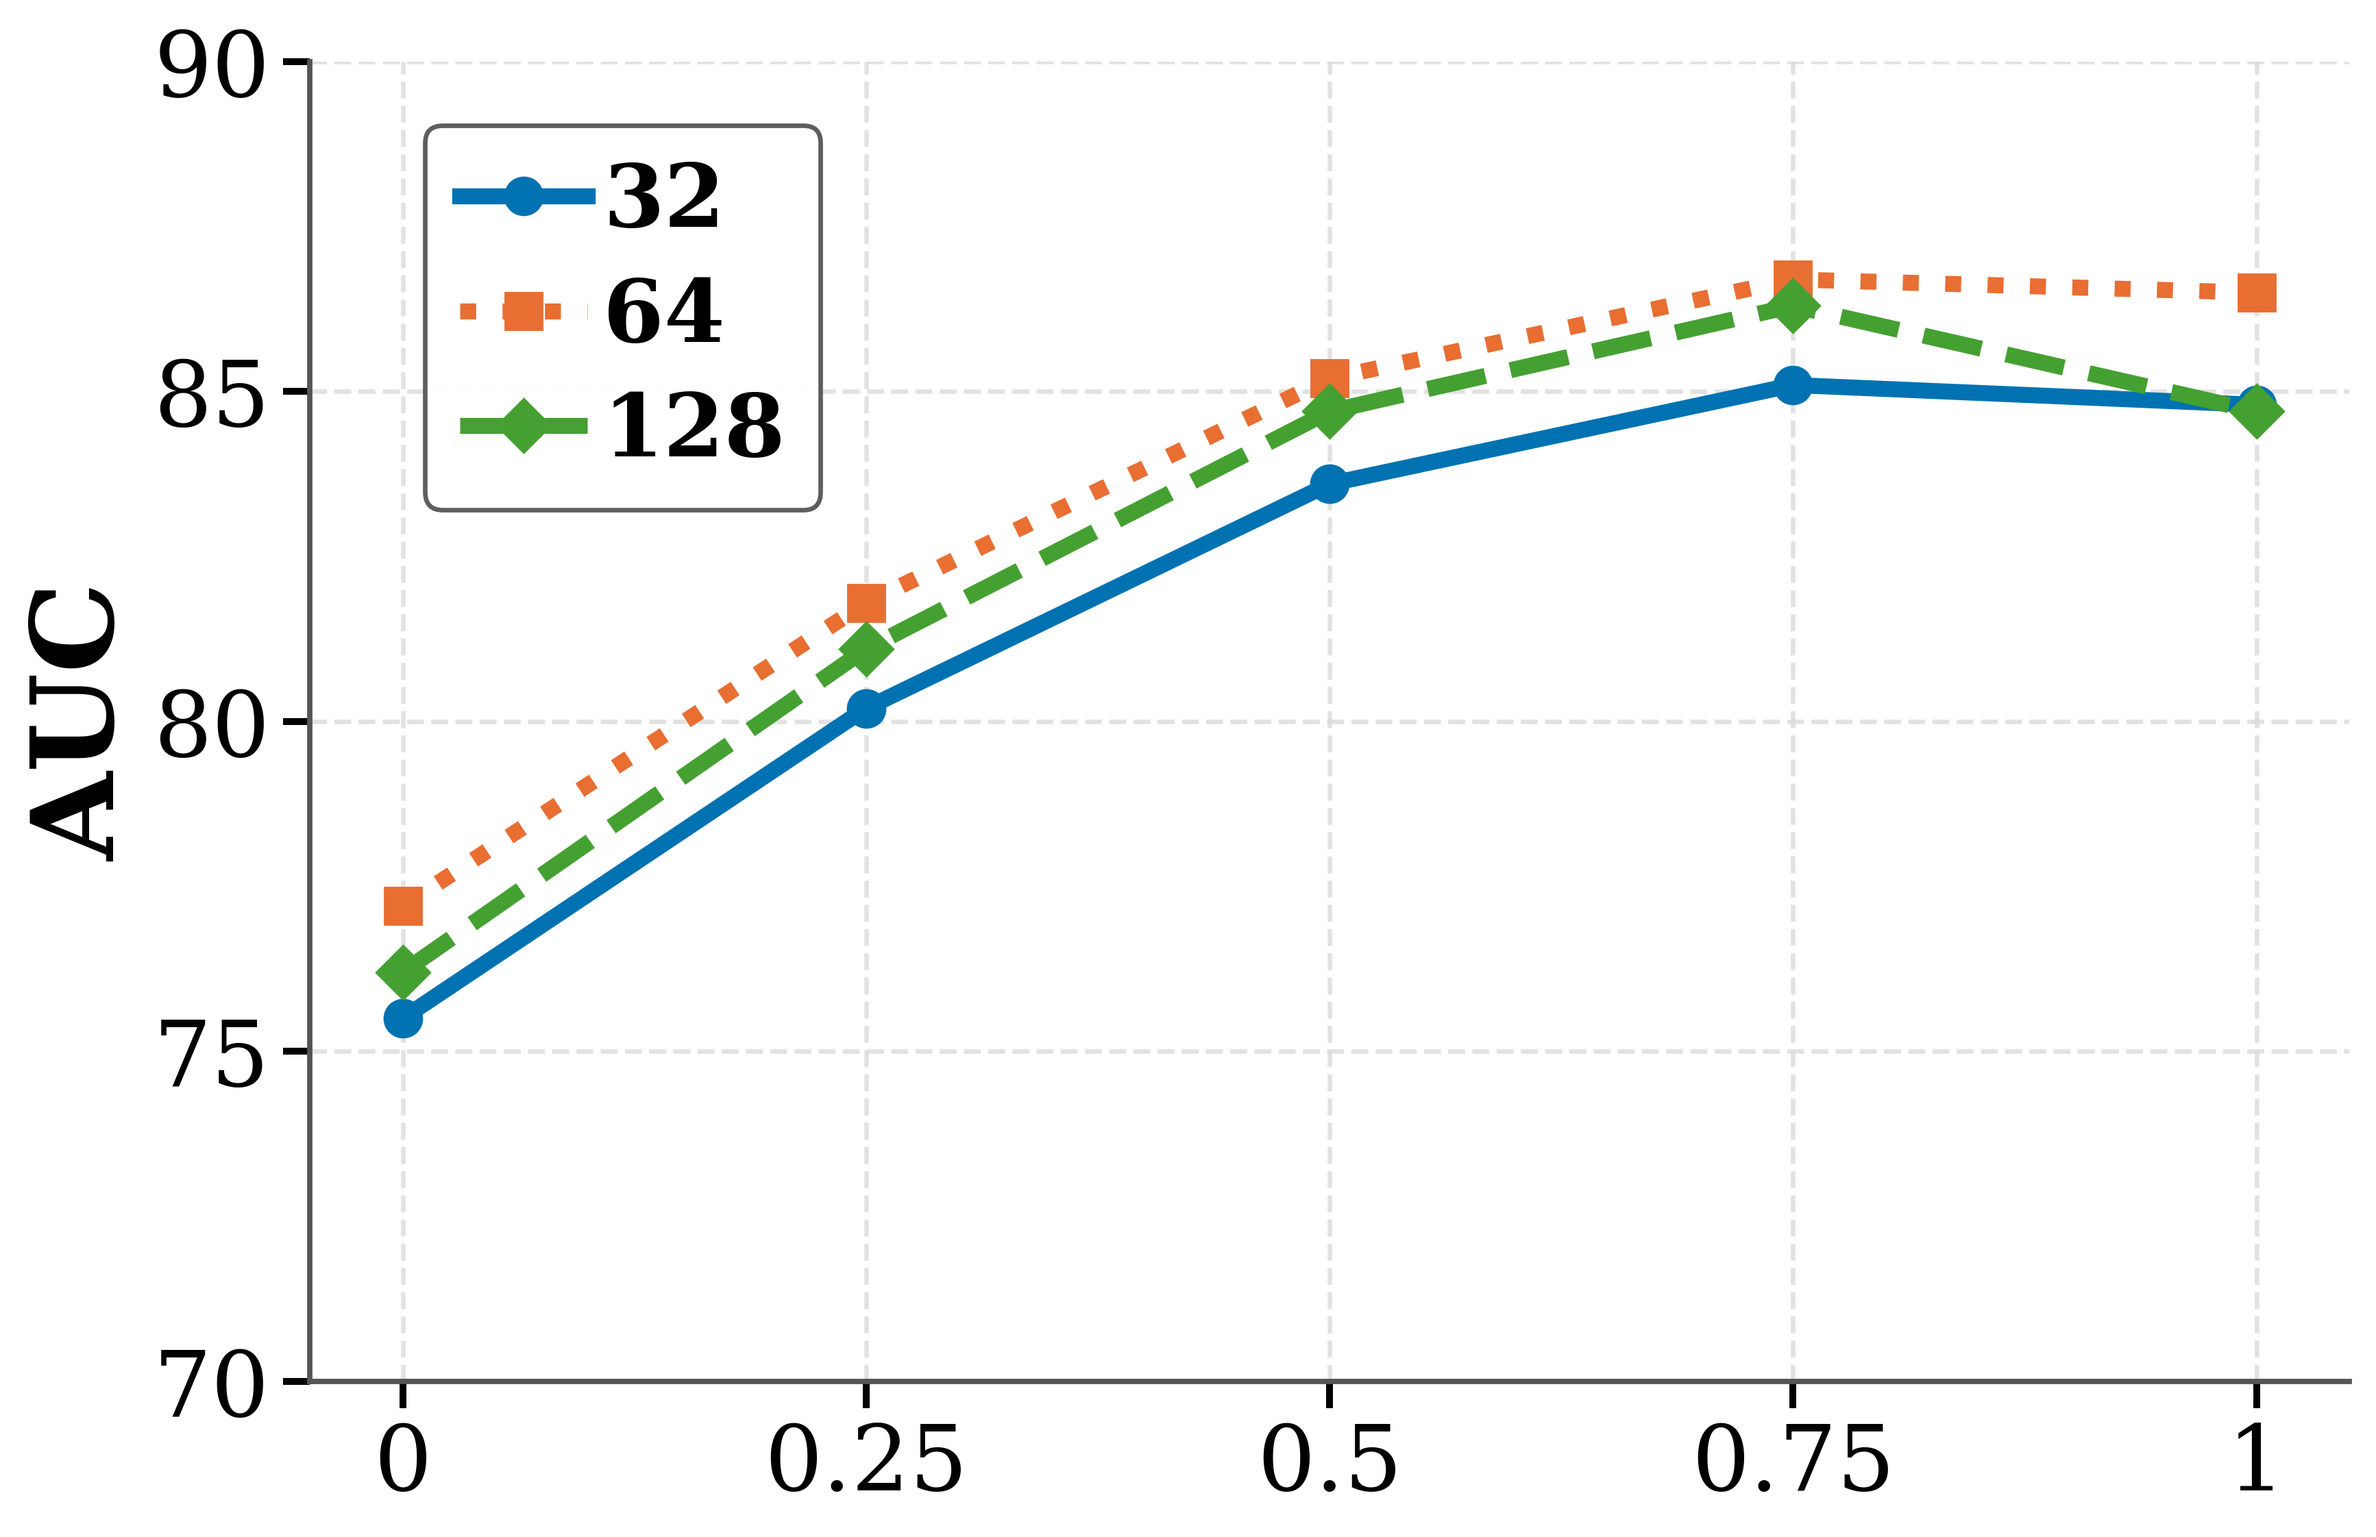
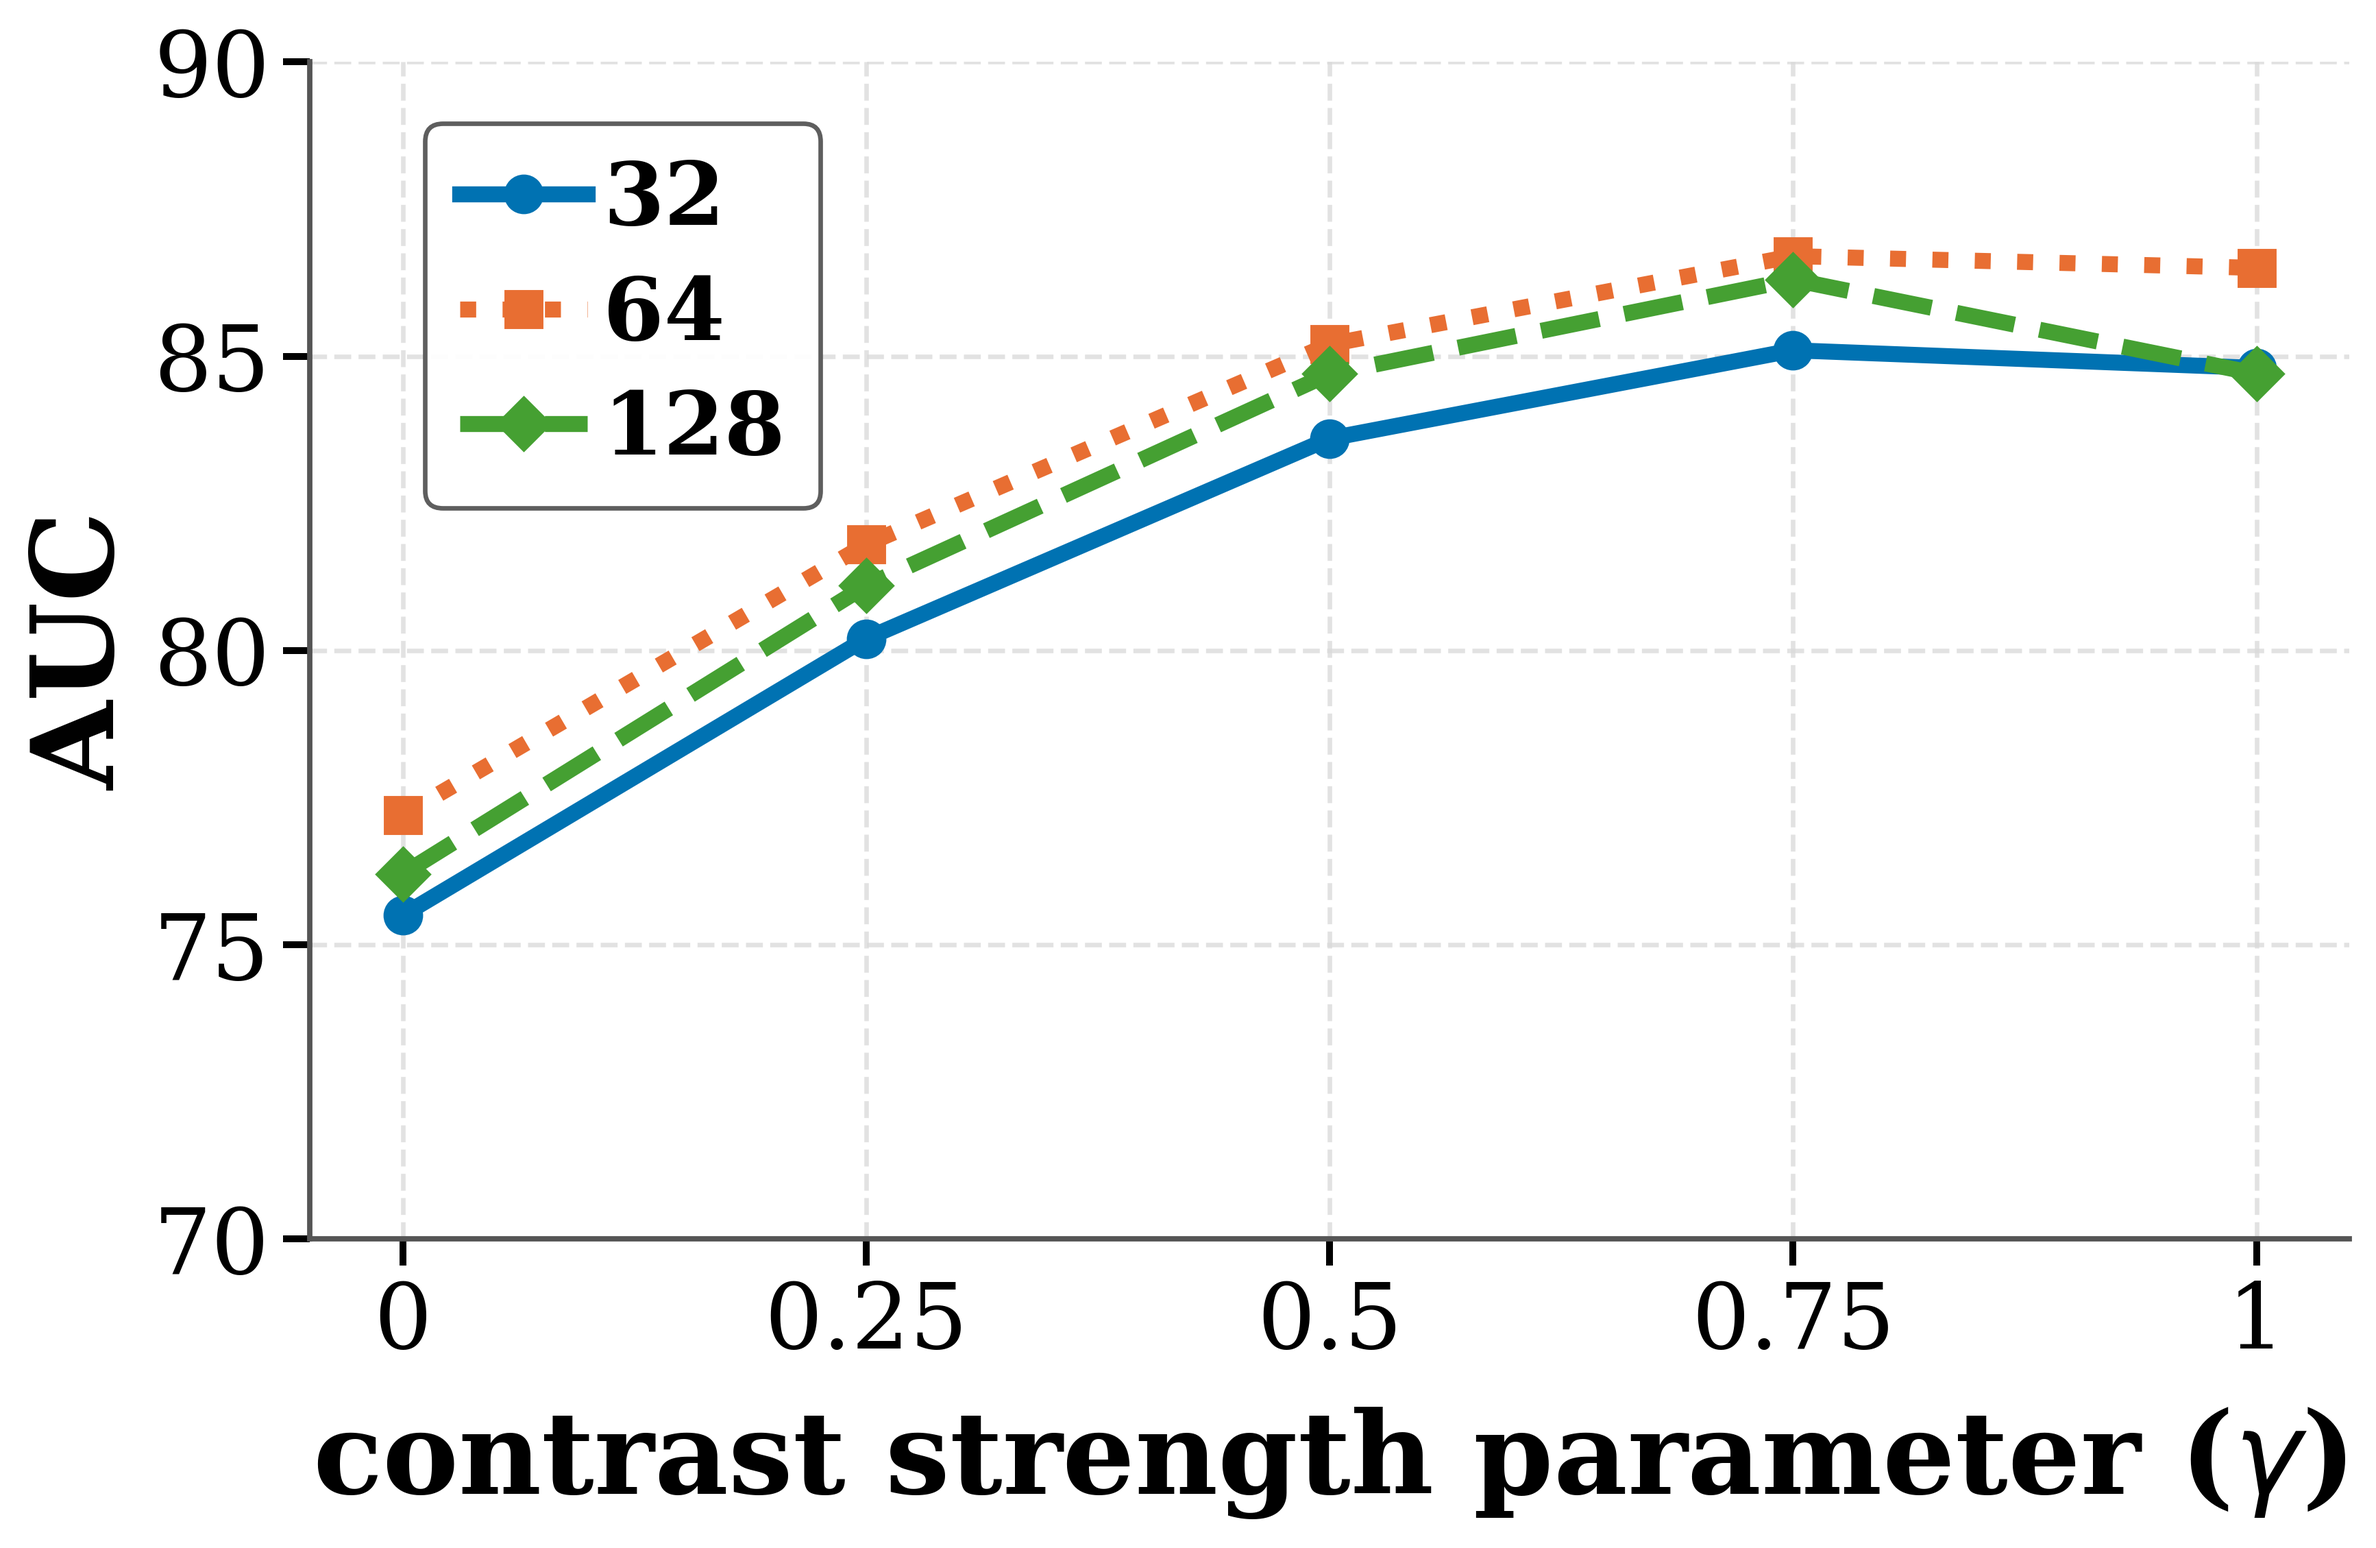
Update Sensitivity Figures

diff --git a/drawfig/plot_wikimia_pythia_wpmia_sensitivity.py b/drawfig/plot_wikimia_pythia_wpmia_sensitivity.py
@@ -44,6 +44,7 @@ PLOTS = {
         "fixed": "gamma",
         "fixed_value": 1.0,
         "output": "wikimia_pythia_wpmia_tau_sensitivity_auc.png",
+        "xlabel": r"temperature parameter ($\tau$)",
         "xticks": [0.03, 0.05, 0.1, 0.2, 0.5],
     },
     "gamma": {
@@ -51,6 +52,7 @@ PLOTS = {
         "fixed": "tau",
         "fixed_value": 0.2,
         "output": "wikimia_pythia_wpmia_gamma_sensitivity_auc.png",
+        "xlabel": r"contrast strength parameter ($\gamma$)",
         "xticks": [0.0, 0.25, 0.5, 0.75, 1.0],
     },
 }
@@ -150,6 +152,7 @@ def plot_sensitivity(
 
     ax.set_xticks(x_positions)
     ax.set_xticklabels([format_value_label(x) for x in x_values])
+    ax.set_xlabel(config["xlabel"], fontweight="bold", labelpad=10)
     ax.set_ylabel("AUC", fontweight="bold", labelpad=4)
     ax.set_ylim(*padded_ylim(all_auc))
 
@@ -180,7 +183,7 @@ def plot_sensitivity(
     for text in legend.get_texts():
         text.set_color("black")
 
-    fig.subplots_adjust(left=0.12, right=0.985, bottom=0.13, top=0.96)
+    fig.subplots_adjust(left=0.12, right=0.985, bottom=0.22, top=0.96)
 
     saved_paths: list[Path] = []
     stem = Path(config["output"]).with_suffix("")
